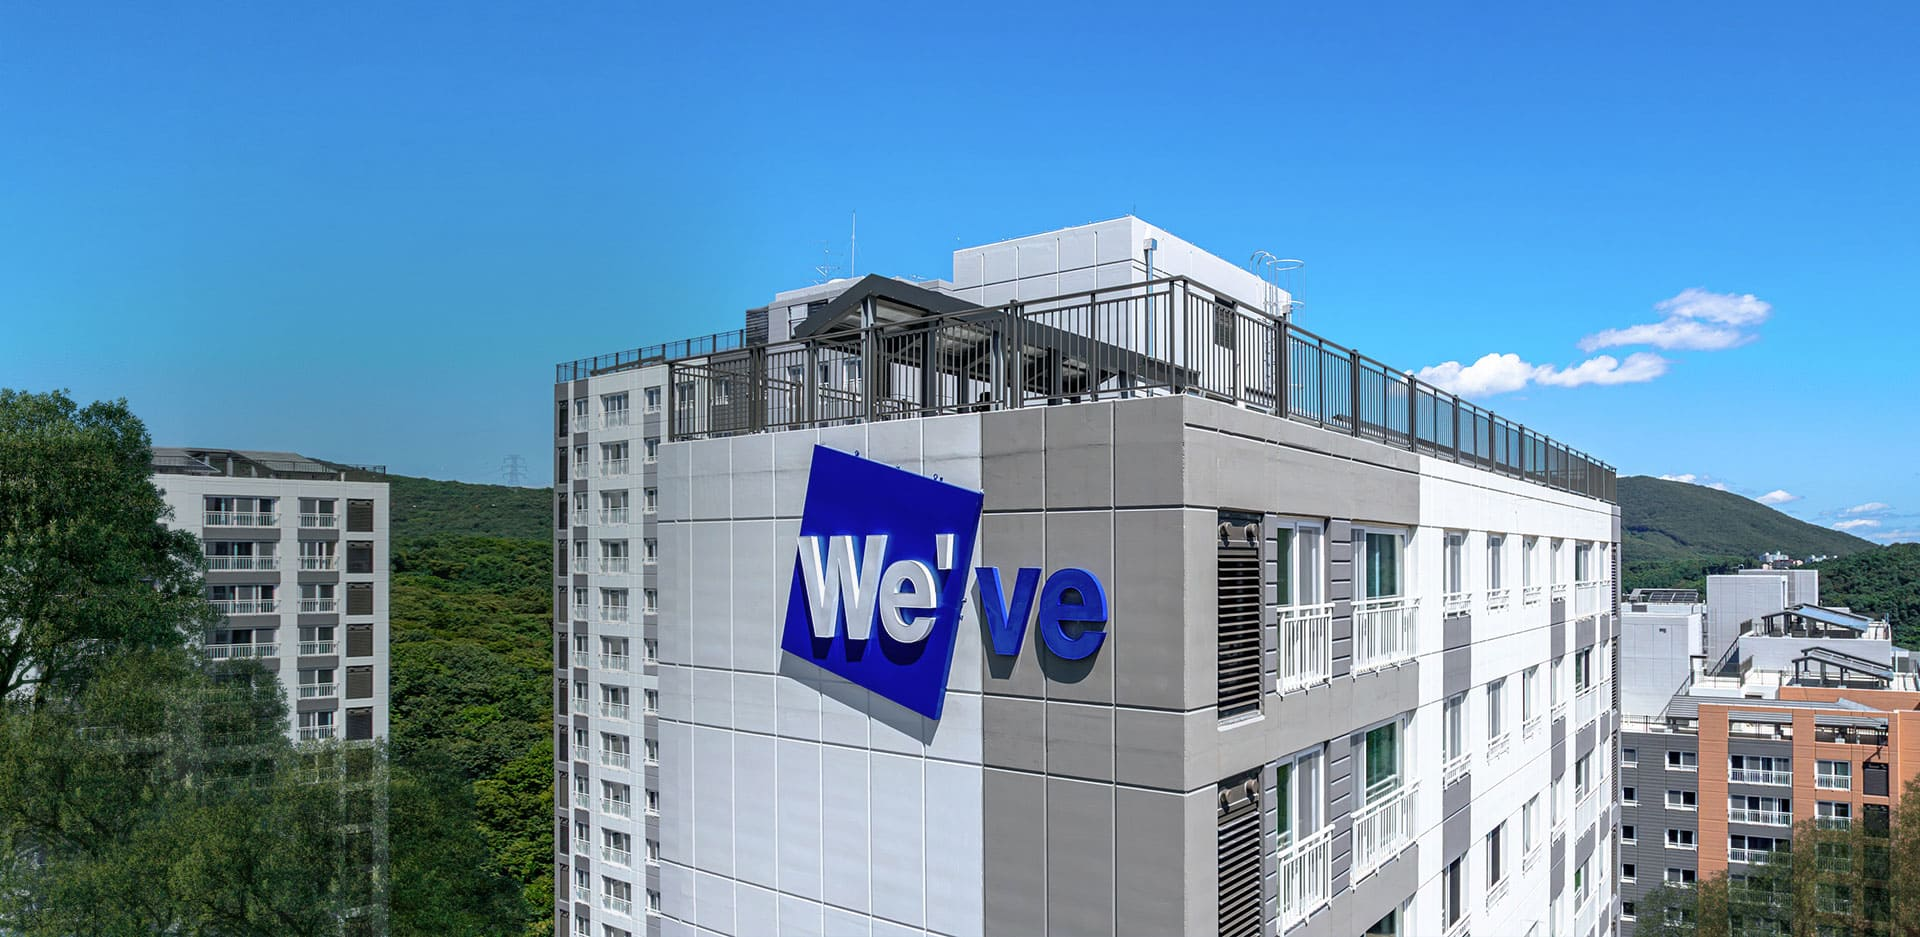
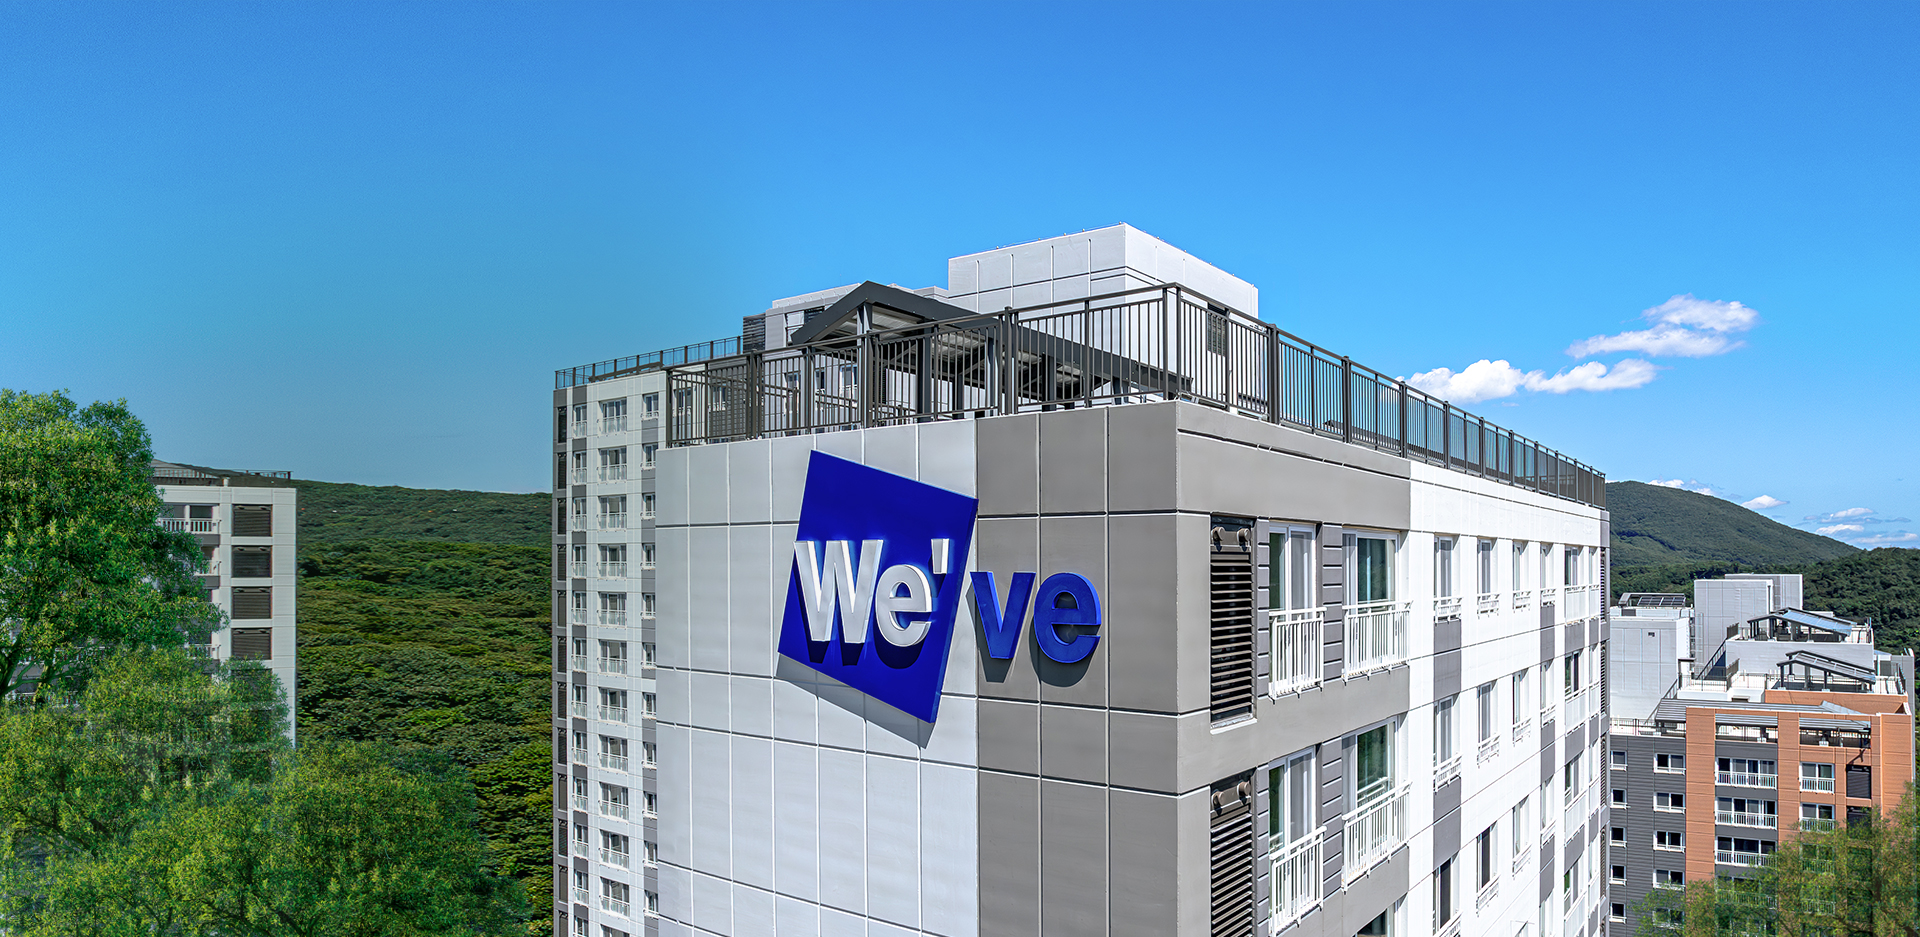
[SM250903_메인비주얼_이미지_교체] 메인비주얼 이미지 교체, 슬라이드 bullet 간격조정, 이메일 CDN URL 수정

diff --git a/css/sub.css b/css/sub.css
@@ -60,7 +60,7 @@
 #rightnavi li.active a span { margin-top: 3rem; line-height: 1; height: auto; max-height: 50rem; }
 #rightnavi li:nth-child(2).active {padding-bottom: 12.5rem; }
 #rightnavi li:nth-child(3).active {padding-bottom: 9.5rem; }
-#rightnavi li:nth-child(4).active {padding-bottom: 20rem; }
+#rightnavi li:nth-child(4).active {padding-bottom: 25rem; }
 #rightnavi li:nth-child(5).active {padding-bottom: 7.2rem; }
 #rightnavi li:nth-child(6).active {padding-bottom: 8.5rem; }
 #rightnavi li:last-child {display: none; }

diff --git a/html/FD-M-02.html b/html/FD-M-02.html
@@ -13,7 +13,7 @@
   <style>
     @font-face {
         font-family: 'Pretendard-Regular';
-        src: url('https://cdn.jsdelivr.net/gh/Project-Noonnu/noonfonts_2107@1.1/Pretendard-Regular.woff') format('woff');
+        src: url('https://cdnjs.cloudflare.com/ajax/libs/pretendard/1.3.9/static/woff/Pretendard-Regular.woff') format('woff');
         font-weight: 400;
         font-style: normal;
     }

diff --git a/html/FD-M-03.html b/html/FD-M-03.html
@@ -13,7 +13,7 @@
   <style>
     @font-face {
         font-family: 'Pretendard-Regular';
-        src: url('https://cdn.jsdelivr.net/gh/Project-Noonnu/noonfonts_2107@1.1/Pretendard-Regular.woff') format('woff');
+        src: url('https://cdnjs.cloudflare.com/ajax/libs/pretendard/1.3.9/static/woff/Pretendard-Regular.woff') format('woff');
         font-weight: 400;
         font-style: normal;
     }

diff --git a/html/FD-M-04.html b/html/FD-M-04.html
@@ -13,7 +13,7 @@
   <style>
     @font-face {
         font-family: 'Pretendard-Regular';
-        src: url('https://cdn.jsdelivr.net/gh/Project-Noonnu/noonfonts_2107@1.1/Pretendard-Regular.woff') format('woff');
+        src: url('https://cdnjs.cloudflare.com/ajax/libs/pretendard/1.3.9/static/woff/Pretendard-Regular.woff') format('woff');
         font-weight: 400;
         font-style: normal;
     }
